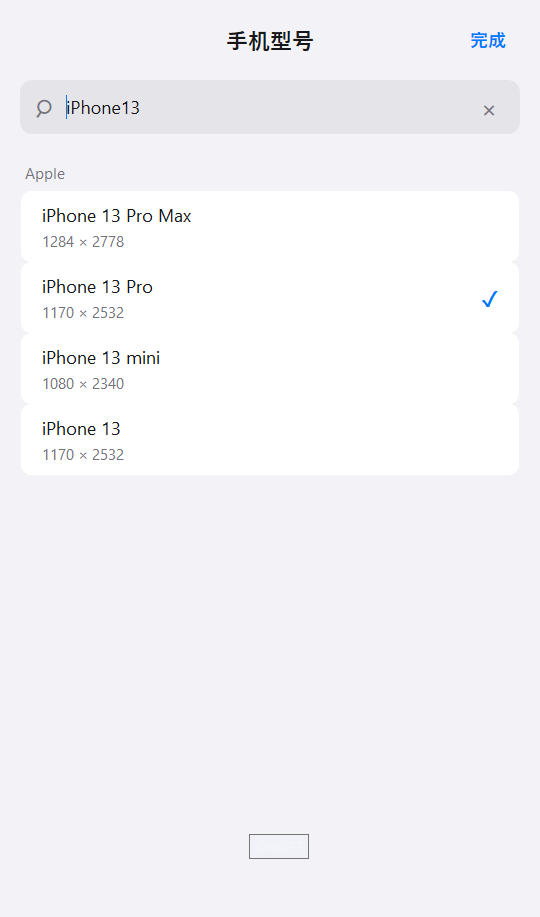
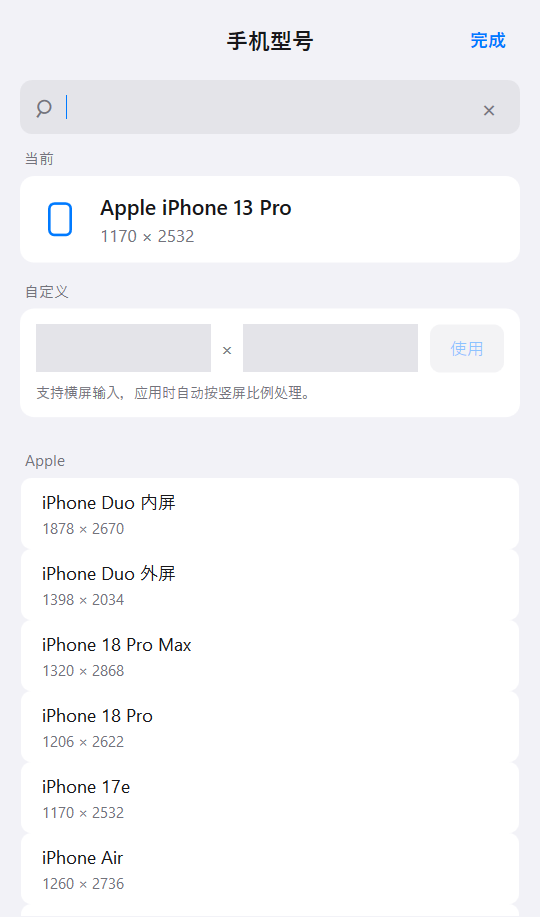
docs: prioritize actual Windows application captures

diff --git a/README.en.md b/README.en.md
@@ -17,11 +17,10 @@ Built for UU Remote · Dedicated portrait display · Native gestures · App Libr
 </div>
 
 <p align="center">
-<img src="Assets/WindowsMedia/phone-running.png" width="30%" alt="Windows phone screen: running applications and windows">
-<img src="Assets/WindowsMedia/phone-tour.gif" width="30%" alt="Windows UI walkthrough: running apps, all apps, search and phone models">
-<img src="Assets/WindowsMedia/phone-models.png" width="30%" alt="Search and select a phone model">
-<br><sub>Running · UI walkthrough · Phone models</sub>
-<br><sub>Windows virtual display and local preview screenshots. Center: screenshot slideshow; private titles are redacted.</sub>
+<img src="Assets/WindowsMedia/phone-running.png" width="36%" alt="App Library on the Windows phone display">
+<img src="Assets/WindowsMedia/phone-browser-fit.png" width="36%" alt="Chrome fitted to the Snug phone display with the return bar">
+<br><sub>App Library · Chrome window fitted to the phone display</sub>
+<br><sub>Actual Windows virtual-display test captures; private titles and local paths redacted.</sub>
 </p>
 
 Snug for Windows is an independent community port of [Snug](https://github.com/zephyr4123/snug), maintained by [rizetngan](https://github.com/rizetngan). Based on Snug 2.5.0, it uses C# / .NET 10 / WPF. For macOS, visit the upstream project.
@@ -42,12 +41,6 @@ Ordinary remote desktop software scales the entire Windows desktop into a phone 
 - **Text and layout**: adjust text size in supported apps and accommodate minimum window widths.
 - **Screenshots and cropping**: enable the optional screenshot control to copy window images to the Windows clipboard and crop them.
 
-<p align="center">
-<img src="Assets/WindowsMedia/desktop-vs-portrait.png" width="76%" alt="The same sample webpage in scaled desktop and portrait layouts">
-<br><sub>Left: scaled whole desktop · Right: portrait app window</sub>
-<br><sub>Illustrative comparison using browser-rendered sample content, not a live UU Remote capture.</sub>
-</p>
-
 ### Touch gestures
 
 | Gesture | Snug phone screen |
@@ -66,8 +59,8 @@ View running apps, search windows, launch installed apps and switch between wind
 <p align="center">
 <img src="Assets/WindowsMedia/phone-running.png" width="30%" alt="Running applications and windows">
 <img src="Assets/WindowsMedia/phone-all-apps.png" width="30%" alt="Installed app icon grid">
-<img src="Assets/WindowsMedia/phone-search.png" width="30%" alt="Search Chrome apps and windows">
-<br><sub>Running · All · Search apps and windows (private titles redacted)</sub>
+<img src="Assets/WindowsMedia/phone-search.png" width="30%" alt="Search for Notepad">
+<br><sub>Running · All · Search for Notepad (virtual-display capture and 0.2.38 local previews)</sub>
 </p>
 
 | Action | How |
@@ -83,8 +76,18 @@ View running apps, search windows, launch installed apps and switch between wind
 Snug sizes its virtual display to match the selected phone model. The catalog can be synchronized with upstream. Select a model from phone-screen controls or Windows settings; unlisted devices can use custom dimensions.
 
 <p align="center">
-<img src="Assets/WindowsMedia/phone-models.png" width="29%" alt="iPhone 13 series model picker">
+<img src="Assets/WindowsMedia/phone-models.png" width="29%" alt="Current model, custom resolution and device list">
 <br><sub>Search for a model and view its resolution</sub>
+</p>
+
+## Windows settings
+
+Configure the phone model, gestures and optional screenshots on Windows. The About dialog displays the version, independent repository and upstream credits.
+
+<p align="center">
+<img src="Assets/WindowsMedia/windows-settings.png" width="44%" alt="Snug for Windows 0.2.38 settings">
+<img src="Assets/WindowsMedia/windows-about.png" width="44%" alt="Snug for Windows 0.2.38 About dialog">
+<br><sub>Settings · About (actual 0.2.38 application UI)</sub>
 </p>
 
 ## Usage

diff --git a/README.md b/README.md
@@ -17,11 +17,10 @@
 </div>
 
 <p align="center">
-<img src="Assets/WindowsMedia/phone-running.png" width="30%" alt="Windows 手机屏：运行中的应用与窗口">
-<img src="Assets/WindowsMedia/phone-tour.gif" width="30%" alt="Windows 界面导览：运行中、全部应用、搜索和机型选择">
-<img src="Assets/WindowsMedia/phone-models.png" width="30%" alt="搜索并选择手机型号">
-<br><sub>运行中 · 界面导览 · 手机型号</sub>
-<br><sub>Windows 实际虚拟屏与本地预览截图；中央为截图轮播，私人窗口标题已隐藏。</sub>
+<img src="Assets/WindowsMedia/phone-running.png" width="36%" alt="Windows 手机屏：App 资源库">
+<img src="Assets/WindowsMedia/phone-browser-fit.png" width="36%" alt="Chrome 窗口适配 Snug 手机屏，底部返回条可见">
+<br><sub>App 资源库 · Chrome 窗口铺屏</sub>
+<br><sub>Windows 实际虚拟屏测试截图，私人标题及本地路径已隐藏。</sub>
 </p>
 
 Snug for Windows 是 [Snug](https://github.com/zephyr4123/snug) 的独立社区 Windows 移植项目，由 [rizetngan](https://github.com/rizetngan) 维护。基于 Snug 2.5.0，使用 C# / .NET 10 / WPF。macOS 用户请前往上游原项目。
@@ -42,12 +41,6 @@ Snug for Windows 是 [Snug](https://github.com/zephyr4123/snug) 的独立社区 
 - **字号与布局**：兼容的应用可调整字号；支持应用的最小宽度适配。
 - **截图与裁剪**：在设置中开启截图后，可以将窗口画面复制到 Windows 剪贴板，再按需裁剪。
 
-<p align="center">
-<img src="Assets/WindowsMedia/desktop-vs-portrait.png" width="76%" alt="同一演示网页的横屏缩放和竖屏布局对比">
-<br><sub>左：整块桌面缩放至手机 · 右：应用窗口按竖屏布局展示</sub>
-<br><sub>同一演示网页的布局示意，使用浏览器渲染，并非 UU 实机截图。</sub>
-</p>
-
 ### 手机触控
 
 | 操作 | Snug 手机屏 |
@@ -66,8 +59,8 @@ Snug for Windows 是 [Snug](https://github.com/zephyr4123/snug) 的独立社区 
 <p align="center">
 <img src="Assets/WindowsMedia/phone-running.png" width="30%" alt="正在运行的应用与窗口">
 <img src="Assets/WindowsMedia/phone-all-apps.png" width="30%" alt="全部应用图标网格">
-<img src="Assets/WindowsMedia/phone-search.png" width="30%" alt="搜索 Chrome 应用与窗口">
-<br><sub>运行中 · 全部 · 搜索应用与窗口（私人窗口标题已隐藏）</sub>
+<img src="Assets/WindowsMedia/phone-search.png" width="30%" alt="搜索 Notepad 应用">
+<br><sub>运行中 · 全部 · 搜索 Notepad（资源库实拍与 0.2.38 本地预览）</sub>
 </p>
 
 | 操作 | 方式 |
@@ -83,8 +76,18 @@ Snug for Windows 是 [Snug](https://github.com/zephyr4123/snug) 的独立社区 
 Snug 根据手机型号调整虚拟显示比例，机型库也可与上游同步。首次使用时，在手机屏右上角或 Windows 设置中选择机型；未列出的设备可以使用自定义尺寸。
 
 <p align="center">
-<img src="Assets/WindowsMedia/phone-models.png" width="29%" alt="iPhone 13 系列机型选择">
+<img src="Assets/WindowsMedia/phone-models.png" width="29%" alt="当前机型、自定义分辨率及机型列表">
 <br><sub>机型选择：搜索型号并查看屏幕分辨率</sub>
+</p>
+
+## Windows 设置
+
+在 Windows 上完成首次设置、选择手机型号、开启触控和截图。关于页面提供当前版本、独立仓库与原项目致谢。
+
+<p align="center">
+<img src="Assets/WindowsMedia/windows-settings.png" width="44%" alt="Snug for Windows 0.2.38 设置页">
+<img src="Assets/WindowsMedia/windows-about.png" width="44%" alt="Snug for Windows 0.2.38 关于页">
+<br><sub>设置 · 关于（0.2.38 实际程序界面）</sub>
 </p>
 
 ## 使用方法

diff --git a/Assets/WindowsMedia/README.md b/Assets/WindowsMedia/README.md
@@ -1,15 +1,18 @@
 # Windows UI media
 
-These images are Windows project captures from November 16–17, 2026, not macOS upstream artwork. They illustrate the existing UI and do not constitute a new real-device acceptance run for the rebuilt 0.2.38 installer.
+The README prioritizes actual Windows application and virtual-display captures, rather than simulated mobile layouts. These captures are documentation material, not a new iPhone acceptance run.
 
 | File | Origin |
 | --- | --- |
-| phone-running.png | Actual Snug Windows virtual display capture from 0.2.22 (SNUG_0.2.22_LIVE_VDD_DPI_CORRECT.png); private browser window titles covered with opaque gray bars. |
-| phone-all-apps.png | Windows local phone UI preview (phone-parity-all.png), November 16; shows the preview header. |
-| phone-search.png | Windows local phone UI preview (phone-parity-search.png), November 16; private window titles covered with opaque gray bars. |
-| phone-models.png | Windows local phone UI preview (phone-parity-model.png), November 16. |
+| phone-running.png | Actual Windows virtual display capture from 0.2.22, November 16, 2026. Private browser-window titles redacted. |
+| phone-browser-fit.png | Actual Windows virtual display capture from 0.2.17, November 16, 2026 (SNUG_0.2.17_BAR_RAISED.png). Chrome renders the browser-fit validation page; the return bar is visible. Local address path redacted. |
+| phone-all-apps.png | Actual 0.2.38 WPF catalog preview, November 18. |
+| phone-search.png | Actual 0.2.38 WPF catalog preview, November 18; searching for Notepad. |
+| phone-models.png | Actual 0.2.38 WPF phone-model preview, November 18; current device, custom size and device list. |
+| windows-settings.png | Actual 0.2.38 WPF settings preview, November 18. |
+| windows-about.png | Actual 0.2.38 WPF About dialog, November 18. |
 | phone-reentry.png | Windows re-entry control capture, November 17. |
-| desktop-vs-portrait.png | Illustrative layout comparison, produced November 18 from a self-contained sample webpage rendered by Chrome at 1440 × 900 and 540 × 1170. The wide capture is scaled into a phone frame; the portrait capture uses the same page's responsive layout. Not an actual UU or Snug session capture. |
-| phone-tour.gif | Four-frame slideshow of the reviewed running, all-apps, search and phone-model screenshots above; 2.1 seconds per frame. Not a screen recording or a real-device acceptance test. |
+| desktop-vs-portrait.png | Previous illustrative comparison, removed from the main README. Not live UU capture. |
+| phone-tour.gif | Previous four-frame screenshot slideshow, removed from the main README. Not live screen recording. |
 
-Original source captures are kept outside the public repo. Only the selected reviewed images are published. The screenshots may differ slightly from the current build. See the [acceptance report](../../Platforms/Windows/ACCEPTANCE_20261118.md) for validation of the 0.2.38 acceptance baseline.
+Future captures: a real iPhone + UU session using a clean terminal/AI coding workflow, matched before-and-after views of the same content, long-press context menu, display picker and uninterrupted operation recording. See [acceptance report](../../Platforms/Windows/ACCEPTANCE_20261118.md).
